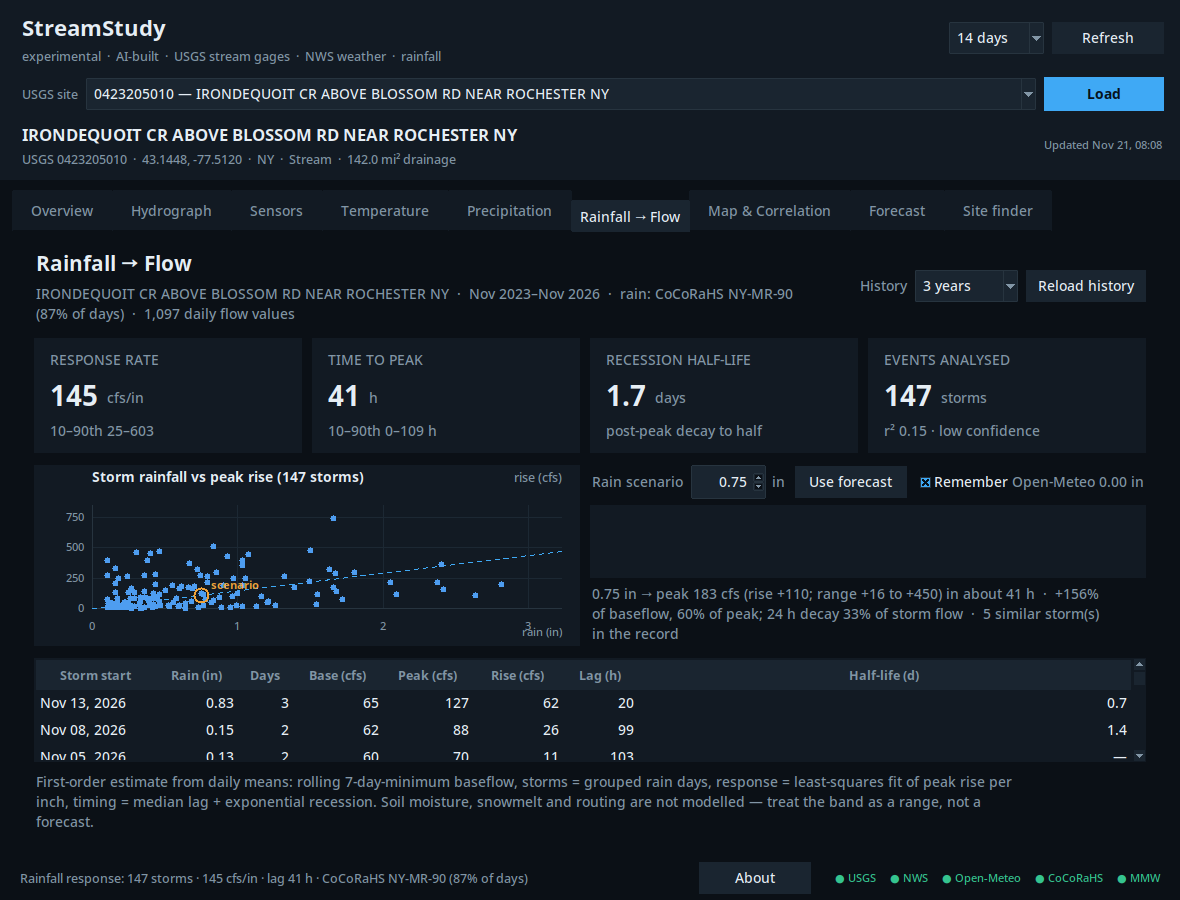
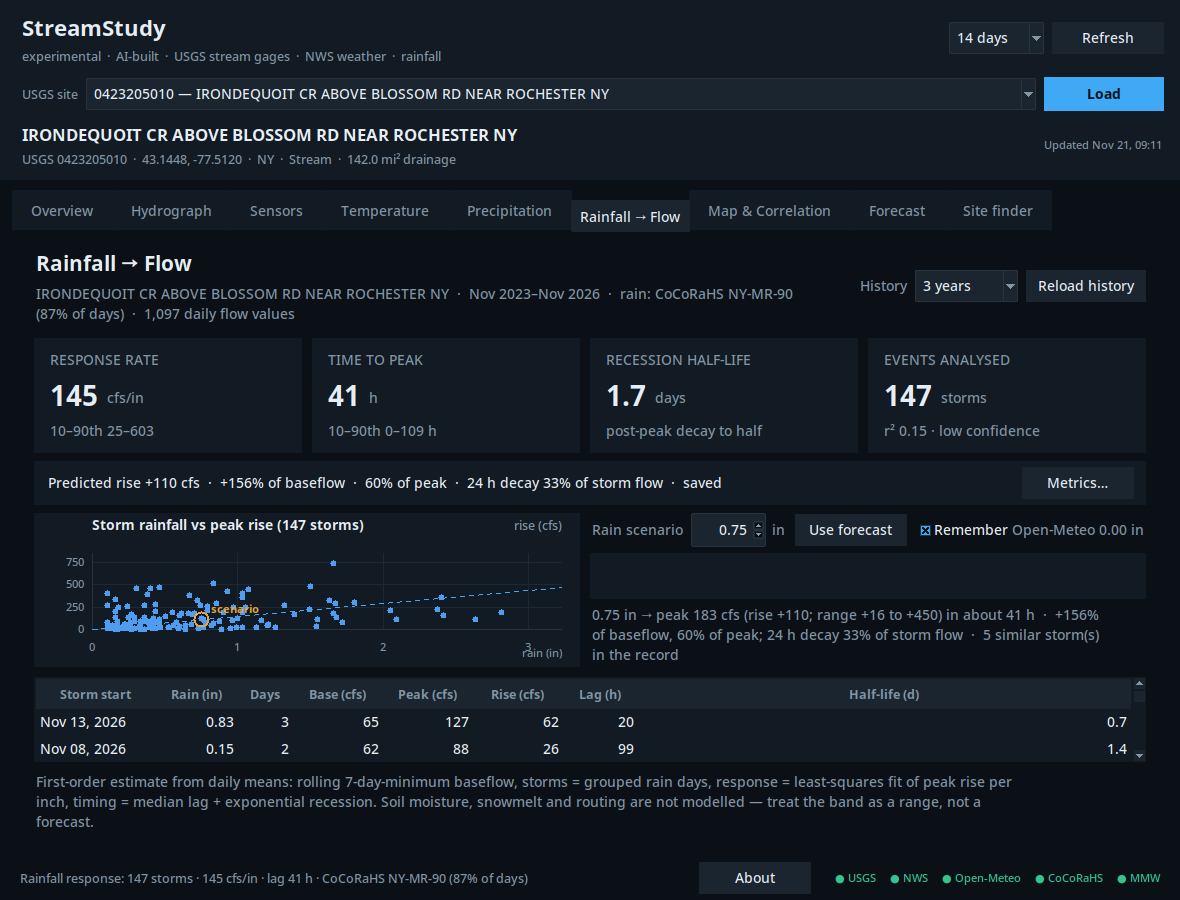
Make flow metrics visible and settable
- Always-visible metrics strip under the Rainfall -> Flow cards: rise in cfs,
  % of baseflow, % of peak, 24 h decay % of storm flow, and saved/not saved
- 'Metrics...' button and Settings -> Flow metrics... open a dialog with the
  computed values, stored values for this site, temperature threshold editor,
  Remember toggle, Save computed metrics and Clear stored
- Explicit 'no rain scenario' message instead of silently hiding metrics
- clear_flow_metrics() added; tests cover the strip and stored payload
- README/AGENTS/CREDITS/build story updated; response screenshot refreshed

Changed region(s): [[0.0305, 0.5289, 0.9763, 0.84], [0.7932, 0.4978, 0.9763, 0.5911], [0.3661, 0.6533, 0.4271, 0.6844]]

diff --git a/streamstudy/ui/response_view.py b/streamstudy/ui/response_view.py
@@ -4,12 +4,12 @@ from __future__ import annotations
 
 import tkinter as tk
 from datetime import timedelta
-from tkinter import ttk
+from tkinter import messagebox, ttk
 
 from ..models import DataBundle, HistoryBundle, utc_now
 from ..response import Prediction, forecast_scenario, predict, recent_baseflow, scale_scenario
 from .charts import ChartCanvas, ChartSeries, ScatterChart
-from .theme import SERIES_COLORS
+from .theme import BG, SERIES_COLORS
 from .widgets import StatCard, clear_tree, treeview
 
 
@@ -25,8 +25,8 @@ class ResponseView(ttk.Frame):
     # -- construction --------------------------------------------------
     def _build(self) -> None:
         self.columnconfigure(0, weight=1)
-        self.rowconfigure(2, weight=3)
-        self.rowconfigure(3, weight=2)
+        self.rowconfigure(3, weight=3)
+        self.rowconfigure(4, weight=2)
 
         header = ttk.Frame(self)
         header.grid(row=0, column=0, sticky="ew")
@@ -75,8 +75,25 @@ class ResponseView(ttk.Frame):
         ):
             card.grid(row=0, column=index, sticky="nsew", padx=(0, 10) if index < 3 else 0)
 
+        metrics = ttk.Frame(self, style="Card.TFrame", padding=(12, 6))
+        metrics.grid(row=2, column=0, sticky="ew", pady=(8, 0))
+        metrics.columnconfigure(0, weight=1)
+        self.metrics_text = tk.StringVar(
+            value="Flow metrics: no scenario yet"
+        )
+        ttk.Label(
+            metrics,
+            textvariable=self.metrics_text,
+            style="Card.TLabel",
+            wraplength=760,
+            justify="left",
+        ).grid(row=0, column=0, sticky="w")
+        ttk.Button(metrics, text="Metrics\u2026", command=self.show_metrics_dialog).grid(
+            row=0, column=1, sticky="e"
+        )
+
         body = ttk.Frame(self)
-        body.grid(row=2, column=0, sticky="nsew", pady=(12, 0))
+        body.grid(row=3, column=0, sticky="nsew", pady=(8, 0))
         body.columnconfigure(0, weight=1, uniform="charts")
         body.columnconfigure(1, weight=1, uniform="charts")
         body.rowconfigure(0, weight=1)
@@ -154,7 +171,7 @@ class ResponseView(ttk.Frame):
             },
             height=5,
         )
-        table_frame.grid(row=3, column=0, sticky="nsew", pady=(12, 0))
+        table_frame.grid(row=4, column=0, sticky="nsew", pady=(10, 0))
 
         self.note = ttk.Label(
             self,
@@ -166,7 +183,7 @@ class ResponseView(ttk.Frame):
             wraplength=1000,
             justify="left",
         )
-        self.note.grid(row=4, column=0, sticky="w", pady=(8, 0))
+        self.note.grid(row=5, column=0, sticky="w", pady=(8, 0))
 
     # -- actions -------------------------------------------------------
     def _on_years(self, _event: tk.Event | None = None) -> None:
@@ -333,25 +350,27 @@ class ResponseView(ttk.Frame):
                     f"{similar}"
                 )
             )
-            self.app.save_flow_metrics(
-                bundle.site.number,
-                {
-                    "rain_in": prediction.rain_in,
-                    "peak_cfs": prediction.peak_cfs,
-                    "rise_cfs": prediction.rise_cfs,
-                    "rise_pct_base": prediction.rise_pct_base,
-                    "rise_pct_peak": prediction.rise_pct_peak,
-                    "decay_24h_pct": prediction.decay_24h_pct,
-                    "peak_time": prediction.peak_time.astimezone().isoformat(
-                        timespec="minutes"
-                    ),
-                    "confidence": prediction.confidence,
-                },
+            payload = self._metrics_payload(prediction)
+            self.app.save_flow_metrics(bundle.site.number, payload)
+            saved = (
+                self.app.store_flow_metrics
+                and self.app.flow_metrics.get(bundle.site.number) is not None
+            )
+            self.metrics_text.set(
+                f"Predicted rise +{prediction.rise_cfs:,.0f} cfs  \u00b7  "
+                f"+{prediction.rise_pct_base:.0f}% of baseflow  \u00b7  "
+                f"{prediction.rise_pct_peak:.0f}% of peak  \u00b7  "
+                f"24 h decay {prediction.decay_24h_pct:.0f}% of storm flow"
+                + ("  \u00b7  saved" if saved else "  \u00b7  not saved")
             )
         else:
             title = "Response outlook"
             self.outlook.configure(
                 text="No rain in the scenario, so no rise is predicted."
+            )
+            self.metrics_text.set(
+                "No rain scenario \u2014 set a scenario above or wait for forecast rain "
+                "to compute flow metrics."
             )
 
         self.prediction_chart.set_series(
@@ -398,4 +417,134 @@ class ResponseView(ttk.Frame):
         self.prediction_chart.set_series([], empty_text=message)
         self.outlook.configure(text="")
         self.scenario_source.configure(text="")
+        self.metrics_text.set(message)
         clear_tree(self.table)
+
+    # -- metrics -------------------------------------------------------
+    @staticmethod
+    def _metrics_payload(prediction: Prediction) -> dict:
+        return {
+            "rain_in": prediction.rain_in,
+            "peak_cfs": prediction.peak_cfs,
+            "rise_cfs": prediction.rise_cfs,
+            "rise_pct_base": prediction.rise_pct_base,
+            "rise_pct_peak": prediction.rise_pct_peak,
+            "decay_24h_pct": prediction.decay_24h_pct,
+            "peak_time": prediction.peak_time.astimezone().isoformat(timespec="minutes"),
+            "confidence": prediction.confidence,
+        }
+
+    def show_metrics_dialog(self) -> None:
+        bundle = self._bundle
+        root = self.winfo_toplevel()
+        if bundle is None:
+            messagebox.showinfo("Flow metrics", "Load a site first.", parent=root)
+            return
+        site = bundle.site
+        prediction = self._prediction
+
+        top = tk.Toplevel(root)
+        top.title("Flow metrics")
+        top.configure(bg=BG)
+        top.geometry("540x470")
+        top.transient(root)
+
+        ttk.Label(
+            top, text=f"Flow metrics \u2014 USGS {site.number}", style="Heading.TLabel"
+        ).pack(anchor="w", padx=14, pady=(12, 6))
+
+        if prediction is not None:
+            computed = (
+                f"Predicted peak {prediction.peak_cfs:,.0f} cfs "
+                f"(rise +{prediction.rise_cfs:,.0f})\n"
+                f"Rise vs baseflow: +{prediction.rise_pct_base:.0f}%\n"
+                f"Rise vs peak: {prediction.rise_pct_peak:.0f}%\n"
+                f"24 h decay vs storm flow: {prediction.decay_24h_pct:.0f}%\n"
+                f"Peak time {prediction.peak_time.astimezone():%b %d %H:%M} "
+                f"\u00b7 confidence {prediction.confidence}"
+            )
+        else:
+            computed = (
+                "No rain scenario yet.\nSet a scenario in Rainfall \u2192 Flow, or wait "
+                "for forecast rain, then reopen this dialog."
+            )
+        ttk.Label(top, text=computed, style="Muted.TLabel", justify="left").pack(
+            anchor="w", padx=14
+        )
+
+        threshold_row = ttk.Frame(top)
+        threshold_row.pack(fill="x", padx=14, pady=(12, 4))
+        ttk.Label(threshold_row, text="Temperature threshold").pack(side="left")
+        threshold_var = tk.StringVar(value=f"{self.app.temperature_threshold:g}")
+        ttk.Spinbox(
+            threshold_row,
+            from_=0.0,
+            to=40.0,
+            increment=0.5,
+            width=6,
+            justify="right",
+            textvariable=threshold_var,
+        ).pack(side="left", padx=6)
+        ttk.Label(threshold_row, text="\u00b0C").pack(side="left")
+
+        def apply_threshold() -> None:
+            try:
+                value = float(threshold_var.get())
+            except ValueError:
+                return
+            self.app.set_temperature_threshold(value)
+
+        ttk.Button(threshold_row, text="Apply", command=apply_threshold).pack(
+            side="left", padx=6
+        )
+
+        remember_var = tk.BooleanVar(value=self.app.store_flow_metrics)
+        ttk.Checkbutton(
+            top,
+            text="Remember these metrics for this site",
+            variable=remember_var,
+            command=lambda: self.app.set_store_flow_metrics(remember_var.get()),
+        ).pack(anchor="w", padx=14, pady=(2, 8))
+
+        stored_var = tk.StringVar()
+
+        def stored_text() -> str:
+            data = self.app.flow_metrics.get(site.number)
+            if not data:
+                return "Stored for this site: none"
+            return (
+                "Stored for this site:\n"
+                f"  rise vs baseflow: {data.get('rise_pct_base', '\u2014')}%\n"
+                f"  rise vs peak: {data.get('rise_pct_peak', '\u2014')}%\n"
+                f"  24 h decay: {data.get('decay_24h_pct', '\u2014')}% of storm flow\n"
+                f"  peak {data.get('peak_cfs', '\u2014')} cfs \u00b7 rain "
+                f"{data.get('rain_in', '\u2014')} in"
+            )
+
+        stored_var.set(stored_text())
+        ttk.Label(
+            top, textvariable=stored_var, style="Muted.TLabel", justify="left"
+        ).pack(anchor="w", padx=14, pady=(4, 6))
+
+        actions = ttk.Frame(top)
+        actions.pack(fill="x", padx=14, pady=(8, 12))
+
+        def save_now() -> None:
+            if prediction is None:
+                return
+            self.app.save_flow_metrics(site.number, self._metrics_payload(prediction))
+            stored_var.set(stored_text())
+            self.metrics_text.set(self.metrics_text.get().split("  \u00b7  saved")[0])
+
+        def clear_saved() -> None:
+            self.app.clear_flow_metrics(site.number)
+            stored_var.set(stored_text())
+
+        save_button = ttk.Button(actions, text="Save computed metrics", command=save_now)
+        save_button.pack(side="left")
+        if prediction is None:
+            save_button.state(["disabled"])
+        ttk.Button(actions, text="Clear stored", command=clear_saved).pack(
+            side="left", padx=8
+        )
+        ttk.Button(actions, text="Close", command=top.destroy).pack(side="right")

diff --git a/streamstudy/app.py b/streamstudy/app.py
@@ -153,6 +153,10 @@ class StreamStudyApp:
         menubar = tk.Menu(self.root)
         settings_menu = tk.Menu(menubar, tearoff=False)
         settings_menu.add_command(
+            label="Flow metrics\u2026", command=lambda: self.response_view.show_metrics_dialog()
+        )
+        settings_menu.add_separator()
+        settings_menu.add_command(
             label="Reset settings to defaults\u2026", command=self.reset_settings
         )
         menubar.add_cascade(label="Settings", menu=settings_menu)
@@ -730,6 +734,13 @@ class StreamStudyApp:
     def set_store_flow_metrics(self, enabled: bool) -> None:
         self.store_flow_metrics = bool(enabled)
         self.settings["store_flow_metrics"] = self.store_flow_metrics
+        save_settings(self.settings, self.settings_path)
+
+    def clear_flow_metrics(self, site_number: str) -> None:
+        if site_number not in self.flow_metrics:
+            return
+        del self.flow_metrics[site_number]
+        self.settings["flow_metrics"] = dict(self.flow_metrics)
         save_settings(self.settings, self.settings_path)
 
     def save_flow_metrics(self, site_number: str, metrics: dict) -> None:

diff --git a/tests/test_app_smoke.py b/tests/test_app_smoke.py
@@ -220,6 +220,14 @@ class AppSmokeTest(unittest.TestCase):
         self.assertEqual(len(self.app.response_view.table.get_children()), 5)
         self.assertGreaterEqual(len(self.app.response_view.prediction_chart._all_series), 4)
         self.assertIn("peak", self.app.response_view.outlook.cget("text"))
+        metrics = self.app.response_view.metrics_text.get()
+        self.assertIn("% of baseflow", metrics)
+        self.assertIn("% of peak", metrics)
+        self.assertIn("decay", metrics)
+        self.assertIn("0423205010", self.app.flow_metrics)
+        stored = self.app.flow_metrics["0423205010"]
+        self.assertIn("rise_pct_base", stored)
+        self.assertIn("decay_24h_pct", stored)
 
     def test_temperature_view_renders(self):
         from datetime import date, timedelta

diff --git a/docs/HOW_THIS_WAS_MADE.md b/docs/HOW_THIS_WAS_MADE.md
@@ -42,6 +42,7 @@ polished marketing: the dead ends are included.
 | 14 | “Map scrolling/dragging and auto-recentering seem tied to the radius pulldown.” | Removed the radius presets: free zoom level, `−/+`, **Fit gages**, and Recenter that keeps your zoom; persists `map_zoom`. | `3f6d2f8` |
 | 15 | “Map navigation seems broken — it snaps back. Is that load lag? Maybe keep a larger map available for panning.” | Panning moves the view immediately (optimistic), tiles are cached by zoom and prefetched 35 % beyond the viewport, and a failed/slow refresh no longer yanks the map back. Wheel zoom applies when the new tiles arrive instead of reverting. | `4f2ca9f` |
 | 16 | “Have the app check the repo for updates and tell the user; show how to update — and also how to revert or create their own variation.” | `updates.py` compares the git commit (or `VERSION` for ZIP copies) with GitHub; a footer banner and **Help → Check for updates…** dialog show copyable commands; `docs/UPDATING.md` covers update, revert and fork workflows. | `c47cef5` |
+| 17 | “I’m not seeing the flow metrics — where are they displayed and set?” | An always-visible metrics strip under the Rainfall → Flow cards plus a **Metrics…** dialog (and **Settings → Flow metrics…**) showing computed and stored values, the temperature threshold, the Remember toggle and save/clear actions. | `pending` |
 
 The first two commits are a different app. That is fine: the prompt changed the domain, and the
 right move was to pivot rather than bolt features onto the wrong program.
@@ -75,6 +76,7 @@ right move was to pivot rather than bolt features onto the wrong program.
 | Prediction chart disappeared | canvas under its minimum height after layout changes | gave the chart a stable height and fixed the grid weights |
 | Map “tied to the radius dropdown” | zoom was derived from a preset radius | free zoom level, Fit gages, Recenter preserving zoom |
 | Map “snapped back” after dragging | the canvas waited for the network, then redrew the old centre | optimistic pan, same-zoom tile cache, 35 % prefetch margin |
+| Flow metrics “not visible” | only appended to one sentence and skipped when the rain scenario was zero | always-visible strip, explicit “no scenario” message, Metrics dialog |
 | Fixture refresh broke tests | assertions pinned to one recorded value | assert structure/ranges/ordering instead of magic numbers |
 
 ## A prompt recipe you can copy
@@ -101,7 +103,7 @@ If you want to try this:
   Open-Meteo forecast/archive, CoCoRaHS CSV export, Monitor My Watershed ODM2, OpenStreetMap
 - **130 tests**, offline, stdlib `unittest`; CI on Python 3.10/3.12/3.13 plus a headless Xvfb job
 - **Zero third-party runtime dependencies** — Tk charts, `urllib`, `tk.PhotoImage` for map tiles
-- **~9,800 lines** of Python including tests, **16 commits** at the time of writing
+- **~9,800 lines** of Python including tests, **17 commits** at the time of writing
 
 ## Credit
 

diff --git a/README.md b/README.md
@@ -54,7 +54,8 @@ feeds them**.
 - **Rainfall → Flow** — 2–10 years of daily flow and rain become a fitted rainfall-runoff
   response: storms detected, response rate (cfs per inch), time to peak, recession half-life,
   a rainfall-vs-rise scatter with the storm examples behind the fit, and a forecast-driven
-  predicted hydrograph with a 10–90 % band and the most similar past storms
+  predicted hydrograph with a 10–90 % band, the most similar past storms, and an always-visible
+  **metrics strip** (rise as % of baseflow/peak, 24 h decay as % of storm flow) with a **Metrics…** dialog
 - **Map & Correlation** — a navigable OpenStreetMap view: **drag to pan, scroll to zoom**, and
   **automatic reload on window resize**; **Recenter** keeps your zoom, **Fit gages** auto-frames
   the visible stations, filter gages by name, and click any dot to load it.
@@ -240,7 +241,7 @@ Additional settings (editable through the UI, stored in the same file):
 | --- | --- | --- |
 | `temperature_threshold_c` | duration-above threshold, editable on the Temperature tab | `20` |
 | `store_flow_metrics` | remember predicted flow metrics per site (`Remember` in Rainfall → Flow) | `true` |
-| `flow_metrics` | last predicted peak/rise/decay percentages per site number | `{}` |
+| `flow_metrics` | last predicted peak/rise/decay percentages per site number (view/save via **Rainfall → Flow → Metrics…** or **Settings → Flow metrics…**) | `{}` |
 | `site_names` | number → station-name map used by the picker | `{}` |
 | `map_zoom` | last map zoom (4–15) | `10` |
 

diff --git a/AGENTS.md b/AGENTS.md
@@ -92,6 +92,11 @@ make test / make gui-test / make run       # same, if you like make
 - **Nearby hub ranking** — `ranking.py` scores candidates on fit r²/storm count, mean peer
   correlation, water-temperature availability and distance; the hub is the best site nearest the
   centroid of the top three. `loader.rank_sites` fetches the history; the Site finder shows it.
+- **Flow metrics** — `response.Prediction` carries `rise_pct_base`, `rise_pct_peak` and
+  `decay_24h_pct`. `ResponseView` shows them in an always-visible strip and a **Metrics…**
+  dialog (also **Settings → Flow metrics…**) that can save them per site
+  (`app.save_flow_metrics` / `clear_flow_metrics`) when **Remember** is enabled; the values
+  live in `settings.flow_metrics[site]`.
 - **Settings reset** — `app.reset_settings()` (menu **Settings → Reset settings to defaults…**)
   restores `settings.DEFAULTS`, keeps only the current site/name, saves, and reloads.
 - **Updates / versioning** — `updates.py` compares a git checkout's `HEAD` with GitHub `main`,

diff --git a/CREDITS.md b/CREDITS.md
@@ -28,6 +28,7 @@ documentation, CI configuration and screenshots — was generated by an LLM agen
 | Free map zoom / Fit gages / Recenter behaviour | prompted, reviewed | DeepSeek V4.1 Flash |
 | docs/HOW_THIS_WAS_MADE.md build story | prompted, reviewed | DeepSeek V4.1 Flash |
 | In-app update check, banner/dialog, docs/UPDATING.md (update, revert, fork) | prompted, reviewed | DeepSeek V4.1 Flash |
+| Flow metrics strip + Metrics dialog (view/save per site) | prompted, reviewed | DeepSeek V4.1 Flash |
 | Map: optimistic pan, tile cache/prefetch, no snap-back while loading | prompted, reviewed | DeepSeek V4.1 Flash |
 
 The model recorded for the session that produced this repository is
